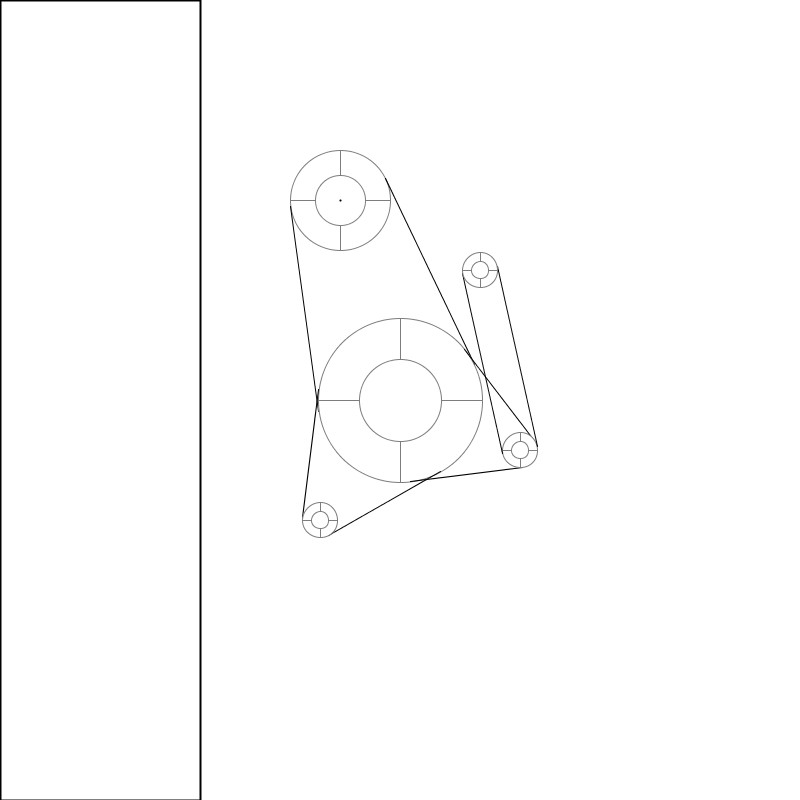
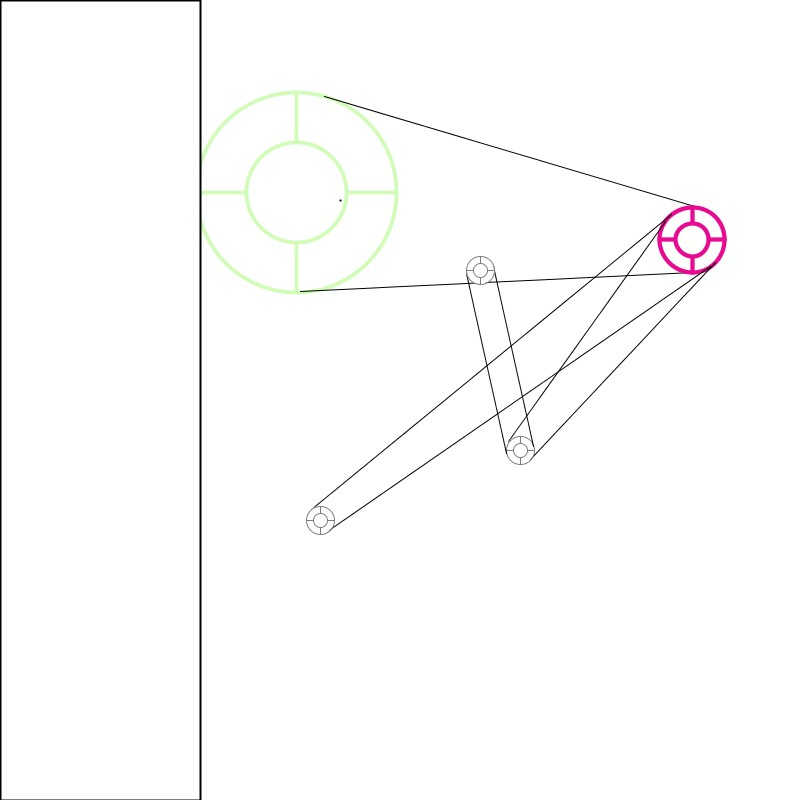
fixed extra gear

diff --git a/src/A03.java b/src/A03.java
@@ -37,7 +37,7 @@ public class A03 extends PApplet{
 //    	g4 = new Gear(this, 360, 600, 30);
 //    	g5 = new Gear(this, 400, 670, 20); 
     	
-    	rrr = new Gear(this, 340, 200, 40, 0);
+    	rrr = new Gear(this, 340, 200, 40, 1);
     	
     	initUI();
     }
